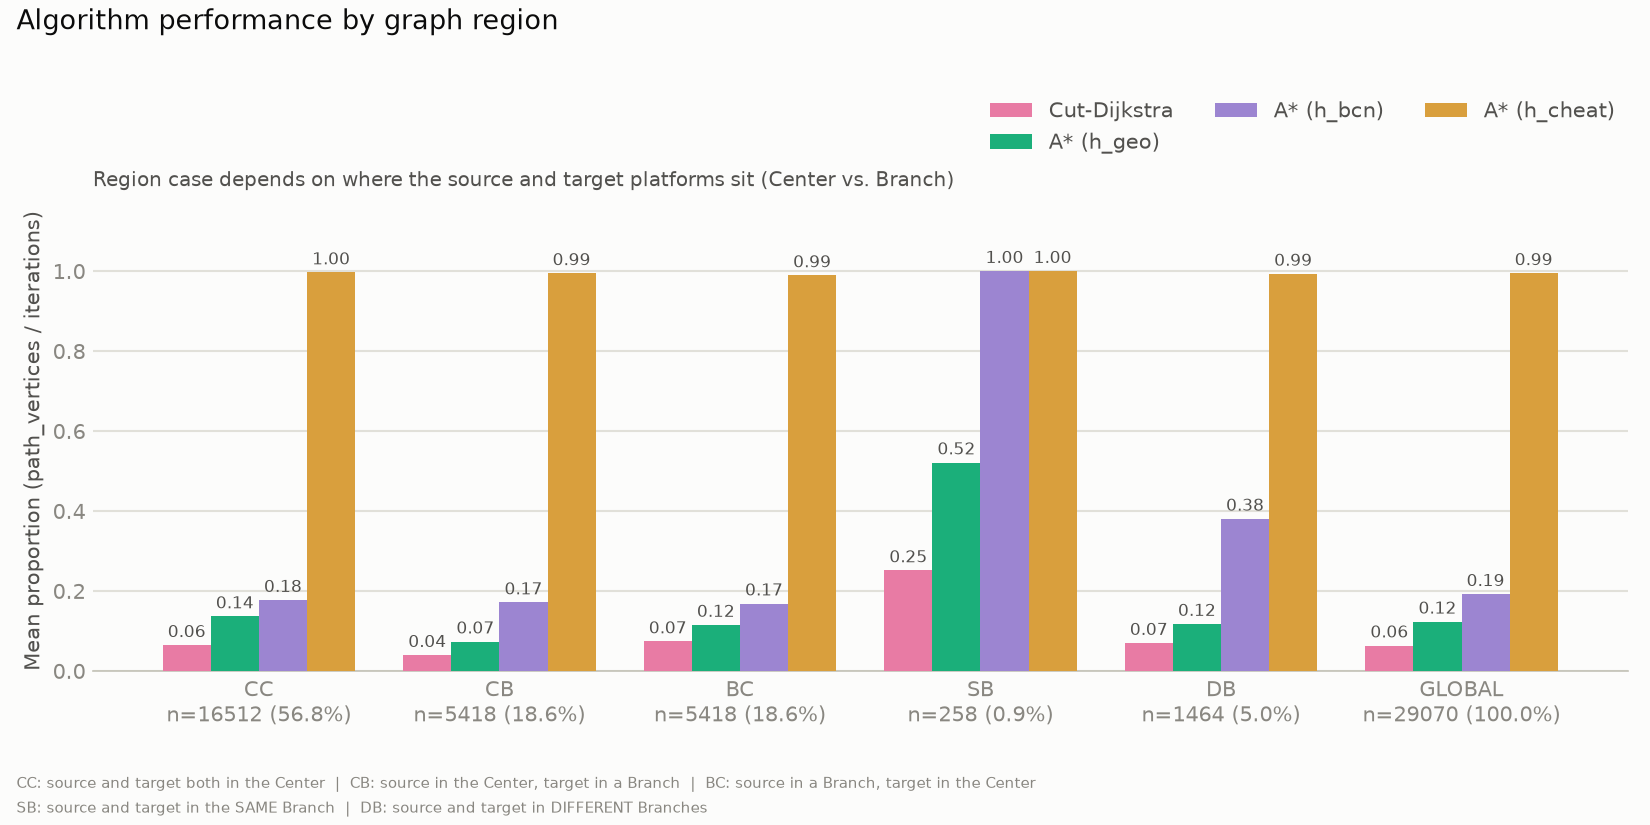
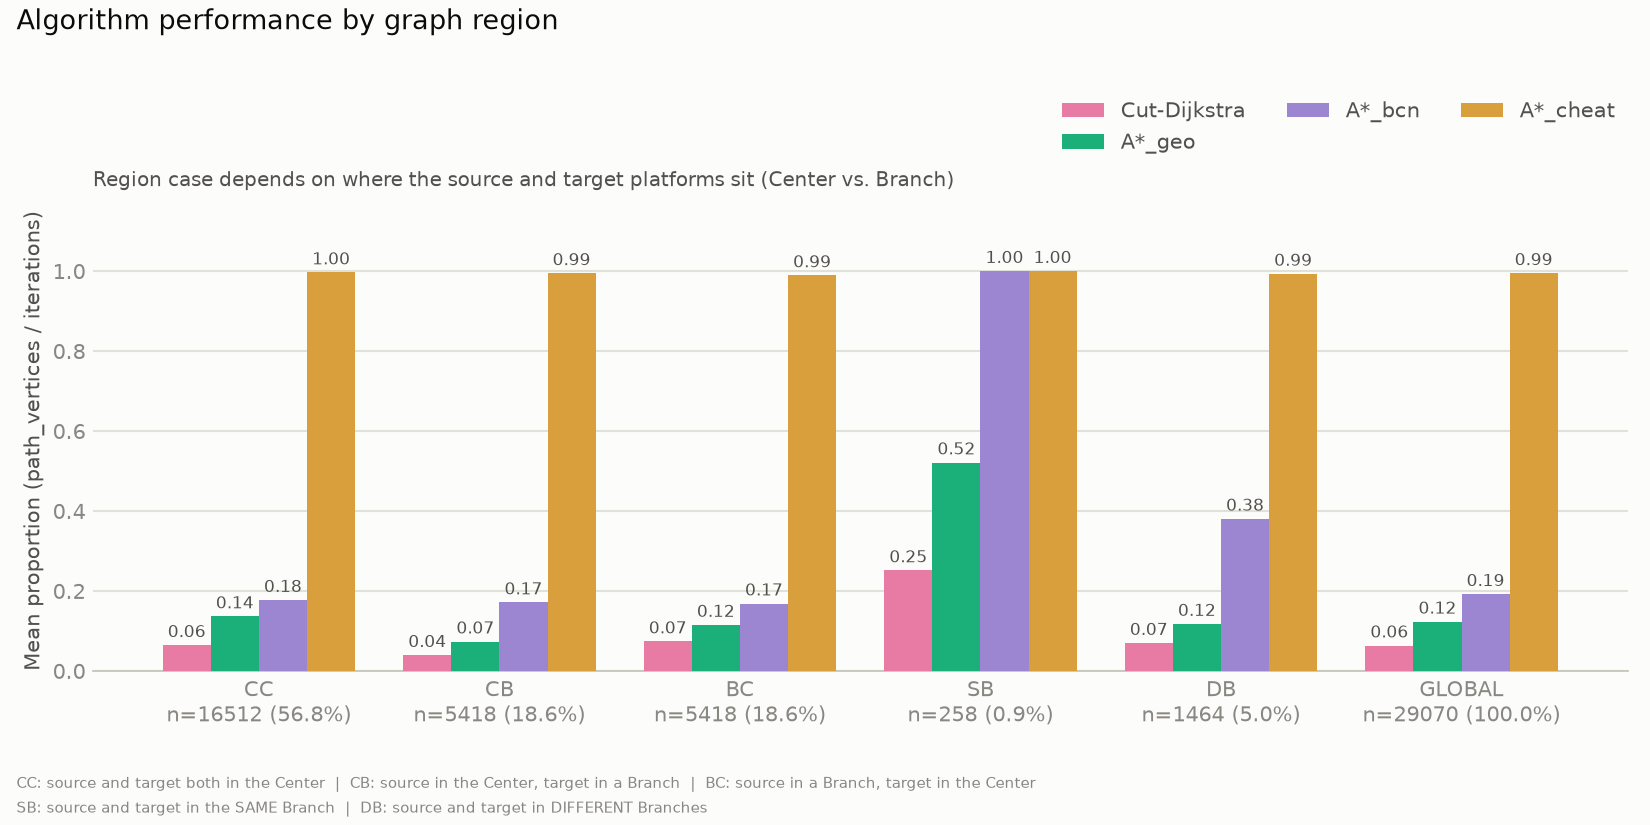
refactor(shortest_paths_algorithms): rename A* heuristic labels to A*_x, add extracted_nodes_graph toggles
- algorithms_comparison.py: rename the "A* (h_geo)"/"A* (h_bcn)"/"A* (h_cheat)"
  legend labels to "A*_geo"/"A*_bcn"/"A*_cheat"
- extracted_nodes_graph.py: propagate the same renaming to its own legend
  text, filename tag, and output filename. Add SHOW_H_BCN and SHOW_BRIDGE
  toggle constants to include/exclude h_bcn's run and the branch-bridge
  diamond from the figure, and print the optimum weight (via
  with_adjusted_target_weight, same as the reports) in the path sidebar
- README.md: document h_bcn's formula and update it for the A*_x renaming

Changed region(s): [[0.5873, 0.1212, 0.9891, 0.1818]]

diff --git a/shortest_paths_algorithms/analysis/extracted_nodes_graph.py b/shortest_paths_algorithms/analysis/extracted_nodes_graph.py
@@ -4,7 +4,7 @@ heuristic (h_geo, h_bcn, h_cheat) actually extracted while searching SOURCE -> T
 The whole graph (graph_inspection/graph_draw/graph.py's load_graph, same source as
 shortest_paths_algorithms/analysis/regions_graph.py) is painted light grey first, then each
 algorithm's extracted nodes and shortest-path-tree edges (parent links) are layered on
-top of it, in a fixed order: Cut-Dijkstra, then A* (h_geo), A* (h_bcn), A* (h_cheat) --
+top of it, in a fixed order: Cut-Dijkstra, then A*_geo, A*_bcn, A*_cheat --
 COLOR_BY_HEURISTIC's own order (shortest_paths_algorithms/analysis/algorithms_comparison.py),
 reused here directly so a heuristic's color always means the same thing across every
 chart in this package. Later layers paint over earlier ones wherever two algorithms
@@ -15,7 +15,8 @@ algorithm's pseudocode -- see a_star_utils.py's a_star() and dijkstra_utils.py's
 _run_dijkstra() for where it's tracked purely for this kind of traceability -- but
 `parent` already is, for both algorithms.
 
-Output_name: {region_case}_{GRAPH_MODE_LABEL}_{SOURCE}_to_{TARGET}.png saved into
+Output_name: {region_case}_{GRAPH_MODE_LABEL}_{SOURCE}_to_{TARGET}.png ({region_case}_
+{GRAPH_MODE_LABEL}_bcn_{SOURCE}_to_{TARGET}.png when SHOW_H_BCN is True) saved into
 'shortest_paths_algorithms/analysis/resources/extracted_nodes' (EXTRACTED_NODES_DIR,
 shortest_paths_algorithms/paths.py). region_case (one of barcelona_division.classify's
 CC/CB/BC/SB/DB cases) is computed from the actual (algo_source, algo_target) platform
@@ -60,11 +61,13 @@ from data_validation.gtfs_utils import (  # noqa: E402
     check_missing_files,
     load_stop_names,
     print_file_disclaimer,
+    seconds_to_hms,
 )
 from graph_inspection.graph_draw.graph import load_graph  # noqa: E402
 from shortest_paths_algorithms.algorithms_utils import (  # noqa: E402
     FULL_GRAPH,
     GRAPH_MODE_LABEL,
+    INF,
     WITHOUT_ENTRANCES_GRAPH,
     EntranceToPlatforms,
     Graph,
@@ -79,6 +82,7 @@ from shortest_paths_algorithms.algorithms_utils import (  # noqa: E402
     report_missing_platform_candidates,
     resolve_search_endpoints,
     stop_label,
+    with_adjusted_target_weight,
 )
 from shortest_paths_algorithms.analysis.algorithms_comparison import (  # noqa: E402
     COLOR_BY_HEURISTIC,
@@ -116,6 +120,12 @@ from shortest_paths_algorithms.a_star.heuristics.h_bcn import (  # noqa: E402
 )
 from shortest_paths_algorithms.dijkstra.dijkstra_utils import cut_dijkstra  # noqa: E402
 from shortest_paths_algorithms.paths import EXTRACTED_NODES_DIR  # noqa: E402
+
+# Toggle to include/exclude h_bcn from the run and the figure/legend below.
+SHOW_H_BCN = True
+
+# Toggle to include/exclude the region_case branch-bridge diamond and its legend entry.
+SHOW_BRIDGE = True
 
 # Human-readable GRAPH_MODE label for the figure's title, distinct from
 # GRAPH_MODE_LABEL's terse "full"/"no_pw" used in the output filename.
@@ -439,7 +449,7 @@ def legend_label_with_stats(label: str, iterations: int, proportion: float) -> s
         proportion: path_vertices / iterations for this run.
 
     returns:
-        e.g. "A* (h_bcn) (18 it, prop=0.61)".
+        e.g. "A*_bcn (18 it, prop=0.61)".
     """
     return (
         f"{LEGEND_LABEL_BY_HEURISTIC[label]} ({iterations} it, prop={proportion:.2f})"
@@ -454,6 +464,7 @@ def draw_and_save_figure(
     entrance_plat_from: Dict[str, Set[str]],
     node_fmt: NodeFmt,
     region_case: str,
+    optimum_weight_text: str,
 ) -> Path:
     """Draw every algorithm's extracted layer over the whole subway graph and save the PNG.
 
@@ -475,6 +486,8 @@ def draw_and_save_figure(
         node_fmt: Callable to label a node (stop name and line), for the
             sidebar.
         region_case: This SOURCE/TARGET pair's classify() case, from main().
+        optimum_weight_text: "Optimum weight: ..." line, same format as
+            print_path_summary (algorithms_utils.py), for the sidebar.
 
     returns:
         The path the PNG was saved to.
@@ -493,6 +506,7 @@ def draw_and_save_figure(
     proportion: float
     bridge_nodes: List[Node]
     output_dir: Path
+    bcn_tag: str
     output_path: Path
     shift: int
 
@@ -518,6 +532,8 @@ def draw_and_save_figure(
     # layers (painted last) sit on top wherever two algorithms extract the same node/edge.
     shift = entrance_endpoint_shift()
     for label in COLOR_BY_HEURISTIC:
+        if label == "a_star_h_bcn" and not SHOW_H_BCN:
+            continue
         parent, expanded, iterations = runs[label]
         color = COLOR_BY_HEURISTIC[label]
         nodes, edges = extracted_nodes_and_edges(expanded, parent, nx_graph)
@@ -579,33 +595,34 @@ def draw_and_save_figure(
         )
     )
 
-    bridge_nodes = resolve_bridge_highlights(
-        region_case, entrance_plat_to, entrance_plat_from
-    )
-    if bridge_nodes:
-        nx.draw_networkx_nodes(
-            nx_graph,
-            pos,
-            nodelist=bridge_nodes,
-            node_shape="D",
-            node_size=BRIDGE_NODE_SIZE,
-            node_color=BRIDGE_COLOR,
-            edgecolors="white",
-            linewidths=1.2,
-            ax=ax,
+    if SHOW_BRIDGE:
+        bridge_nodes = resolve_bridge_highlights(
+            region_case, entrance_plat_to, entrance_plat_from
         )
-        legend_handles.append(
-            plt.Line2D(
-                [0],
-                [0],
-                marker="D",
-                color="none",
-                markerfacecolor=BRIDGE_COLOR,
-                markeredgecolor="white",
-                markersize=10,
-                label="Branch bridge",
+        if bridge_nodes:
+            nx.draw_networkx_nodes(
+                nx_graph,
+                pos,
+                nodelist=bridge_nodes,
+                node_shape="D",
+                node_size=BRIDGE_NODE_SIZE,
+                node_color=BRIDGE_COLOR,
+                edgecolors="white",
+                linewidths=1.2,
+                ax=ax,
             )
-        )
+            legend_handles.append(
+                plt.Line2D(
+                    [0],
+                    [0],
+                    marker="D",
+                    color="none",
+                    markerfacecolor=BRIDGE_COLOR,
+                    markeredgecolor="white",
+                    markersize=10,
+                    label="Branch bridge",
+                )
+            )
 
     ax.legend(
         handles=legend_handles,
@@ -620,7 +637,8 @@ def draw_and_save_figure(
         0.01,
         0.98,
         f"Shortest path ({path_vertices} vertices):\n"
-        + "\n".join(format_path_lines(path, node_fmt)),
+        + "\n".join(format_path_lines(path, node_fmt))
+        + f"\n{optimum_weight_text}",
         transform=ax.transAxes,
         fontsize=11,
         va="top",
@@ -640,7 +658,9 @@ def draw_and_save_figure(
     ax.text(
         0.01,
         0.01,
-        "Cut-Dijkstra, then A* (h_geo), A* (h_bcn), A* (h_cheat), painted in that order",
+        "Cut-Dijkstra, then A*_geo, "
+        + ("A*_bcn, " if SHOW_H_BCN else "")
+        + "A*_cheat, painted in that order",
         transform=ax.transAxes,
         ha="left",
         va="bottom",
@@ -652,9 +672,10 @@ def draw_and_save_figure(
 
     output_dir = Path(EXTRACTED_NODES_DIR)
     output_dir.mkdir(parents=True, exist_ok=True)
+    bcn_tag = "bcn_" if SHOW_H_BCN else ""
     output_path = (
         output_dir
-        / f"{region_case}_{GRAPH_MODE_LABEL[GRAPH_MODE]}_{SOURCE}_to_{TARGET}.png"
+        / f"{region_case}_{GRAPH_MODE_LABEL[GRAPH_MODE]}_{bcn_tag}{SOURCE}_to_{TARGET}.png"
     )
     fig.savefig(output_path, dpi=200)
     plt.close(fig)
@@ -678,12 +699,17 @@ def main() -> None:
     node_fmt: NodeFmt
     source_platforms: Set[Node]
     target_platforms: Set[Node]
+    entry_total: int
     algo_source: Node
     algo_target: Node
     region_case: str
+    dijkstra_dist: Dict[Node, int]
     dijkstra_parent: Dict[Node, Optional[Node]]
     dijkstra_expanded: Dict[Node, bool]
     dijkstra_iterations: int
+    best_weight: int
+    total: int
+    optimum_weight_text: str
     path: List[Node]
     path_vertices: int
     output_path: Path
@@ -712,11 +738,14 @@ def main() -> None:
     depth_from, depth_to = build_depth_tables(graph)
     heuristics = {
         "a_star_h_geo": build_h_geo(coords, v_max),
-        "a_star_h_bcn": build_h_bcn(WEIGHTS_FILE, coords, v_max, depth_from, depth_to),
         "a_star_h_cheat": build_h_cheat(graph),
     }
+    if SHOW_H_BCN:
+        heuristics["a_star_h_bcn"] = build_h_bcn(
+            WEIGHTS_FILE, coords, v_max, depth_from, depth_to
+        )
 
-    source_platforms, target_platforms, _ = resolve_search_endpoints(
+    source_platforms, target_platforms, entry_total = resolve_search_endpoints(
         GRAPH_MODE, SOURCE, TARGET, entrance_plat_from, entrance_plat_to
     )
     if report_missing_platform_candidates(
@@ -734,7 +763,7 @@ def main() -> None:
     (
         algo_source,
         algo_target,
-        _,
+        dijkstra_dist,
         dijkstra_parent,
         dijkstra_iterations,
         dijkstra_expanded,
@@ -743,6 +772,14 @@ def main() -> None:
         source_platforms,
         target_platforms,
         partial(cut_dijkstra, verbose=False),
+    )
+    best_weight = dijkstra_dist[algo_target]
+    total = with_adjusted_target_weight(
+        dijkstra_dist, TARGET, best_weight, entry_total
+    )[TARGET]
+    optimum_weight_text = (
+        f"Optimum weight: {'inf' if total == INF else seconds_to_hms(total)}"
+        " (format: HH:MM:SS)"
     )
 
     runs = {"Dijkstra": (dijkstra_parent, dijkstra_expanded, dijkstra_iterations)}
@@ -769,6 +806,7 @@ def main() -> None:
         entrance_plat_from,
         node_fmt,
         region_case,
+        optimum_weight_text,
     )
     print(f"{output_path.name} generated into {output_path.relative_to(_PROJECT_ROOT)}")
 

diff --git a/shortest_paths_algorithms/analysis/algorithms_comparison.py b/shortest_paths_algorithms/analysis/algorithms_comparison.py
@@ -82,9 +82,9 @@ from shortest_paths_algorithms.paths import (  # noqa: E402
 # Dijkstra, so the legend says so regardless of which graph mode is plotted.
 LEGEND_LABEL_BY_HEURISTIC = {
     "Dijkstra": "Cut-Dijkstra",
-    "a_star_h_geo": "A* (h_geo)",
-    "a_star_h_bcn": "A* (h_bcn)",
-    "a_star_h_cheat": "A* (h_cheat)",
+    "a_star_h_geo": "A*_geo",
+    "a_star_h_bcn": "A*_bcn",
+    "a_star_h_cheat": "A*_cheat",
 }
 
 COLOR_BY_HEURISTIC = {

diff --git a/shortest_paths_algorithms/README.md b/shortest_paths_algorithms/README.md
@@ -86,9 +86,53 @@ Important paths shared across `shortest_paths_algorithms/`'s modules.
   - `h_geo.py`: straight-line distance / v_max.
   - `h_cheat.py`: the real optimal cost via `cut_dijkstra`, only useful to see how A* behaves with
     a perfect heuristic, since computing it already requires solving the shortest path.
-  - `h_bcn.py`: a Barcelona region/bridge-aware heuristic built on `barcelona_division.py`. Reduces
-    node/target to the platform(s) they connect to, then estimates the remaining cost via `h_geo`
-    across the dense Center or exact precomputed bridge depths within/between branches.
+  - `h_bcn.py`: a Barcelona region/bridge-aware heuristic built on `barcelona_division.py`.
+    Reduces node/target to the platform(s) they connect to, then estimates the remaining cost via
+    `h_geo` across the dense Center or exact precomputed bridge depths within/between branches:
+
+    $$
+    h\_bcn(n, t)=
+    \begin{cases}
+    0, & \text{if } n = t,\\[1ex]
+    \infty, & \text{if } \text{plat\_from}(n) \text{ or } \text{plat\_to}(t) \text{ is empty},\\[1ex]
+    \text{entry\_cost}(n)
+    +\displaystyle\min_{p\in \text{plat\_from}(n),\,q\in \text{plat\_to}(t)}
+    \text{h\_regions\_cases}(p,q)
+    +\text{entry\_cost}(t),
+    & \text{otherwise.}
+    \end{cases}
+    $$
+
+    where:
+    - `plat_from(n)` is the set of platforms reachable from `n`: if `n` is already a platform,
+      `plat_from(n) = {n}`; if `n` is an entrance, `plat_from(n)` is the set of platforms that
+      entrance gives access to.
+    - `plat_to(t)` is the set of platforms that lead into `t`: if `t` is already a platform,
+      `plat_to(t) = {t}`; if `t` is an entrance, `plat_to(t)` is the set of platforms from which
+      that entrance can be reached.
+    - `entry_cost(·)` is the entrance cost: the fixed pathway cost if the node is an entrance, `0`
+      if it's already a platform.
+    - `h_regions_cases(p, q)` is the inter-platform heuristic defined below.
+
+    $$
+    \text{h\_regions\_cases}(p,q)=
+    \begin{cases}
+    h\_geo(p,q), & \text{if } (p,q) \in CC,\\[1ex]
+    \text{depth\_from\_bridge}(q)-\text{depth\_from\_bridge}(p),
+    & \text{if } (p,q) \in SB \text{ and } \text{depth\_from\_bridge}(p)<\text{depth\_from\_bridge}(q),\\[1ex]
+    \text{depth\_to\_bridge}(p)-\text{depth\_to\_bridge}(q),
+    & \text{if } (p,q) \in SB \text{ otherwise},\\[1ex]
+    h\_geo(p,\text{compute\_bridge}(q))+\text{depth\_from\_bridge}(q), & \text{if } (p,q) \in CB,\\[1ex]
+    \text{depth\_to\_bridge}(p)+h\_geo(\text{compute\_bridge}(p),q), & \text{if } (p,q) \in BC,\\[1ex]
+    \text{depth\_to\_bridge}(p)+h\_geo(\text{compute\_bridge}(p),\text{compute\_bridge}(q))+\text{depth\_from\_bridge}(q),
+    & \text{if } (p,q) \in DB.
+    \end{cases}
+    $$
+
+    where `compute_bridge(p)` and `compute_bridge(q)` are the bridge platforms of the branches `p`
+    and `q` belong to, respectively. `depth_from_bridge(x)` is the exact cost from the branch's
+    bridge platform to `x`, and `depth_to_bridge(x)` is the exact cost from `x` to the branch's
+    bridge platform.
 - `a_star_example.py`: a small toy graph with a hardcoded heuristic, separate from the real
   subway data.
 - `resources/`: `.txt` traces generated by `a_star.py`.
@@ -117,8 +161,8 @@ call since each report depends on the other's output for its analysis:
 
 ## analysis/
 
-- `algorithms_comparison.py`: aggregates the `reports/` outputs (Dijkstra, A* with `h_geo`, A* with
-  `h_bcn`, A* with `h_cheat`) by graph region instead of only the single global `proportion` each
+- `algorithms_comparison.py`: aggregates the `reports/` outputs (Dijkstra, `A*_geo`, `A*_bcn`,
+  `A*_cheat`) by graph region instead of only the single global `proportion` each
   report already prints on its own, splitting every platform pair into a Center/Branch case via
   `barcelona_division.py`. Builds two outputs: `algorithms_comparison_full_report.txt`/`_full_chart.png`
   (`FULL_GRAPH` only) and `algorithms_comparison_combined_report.txt`/`_combined_chart.png`
